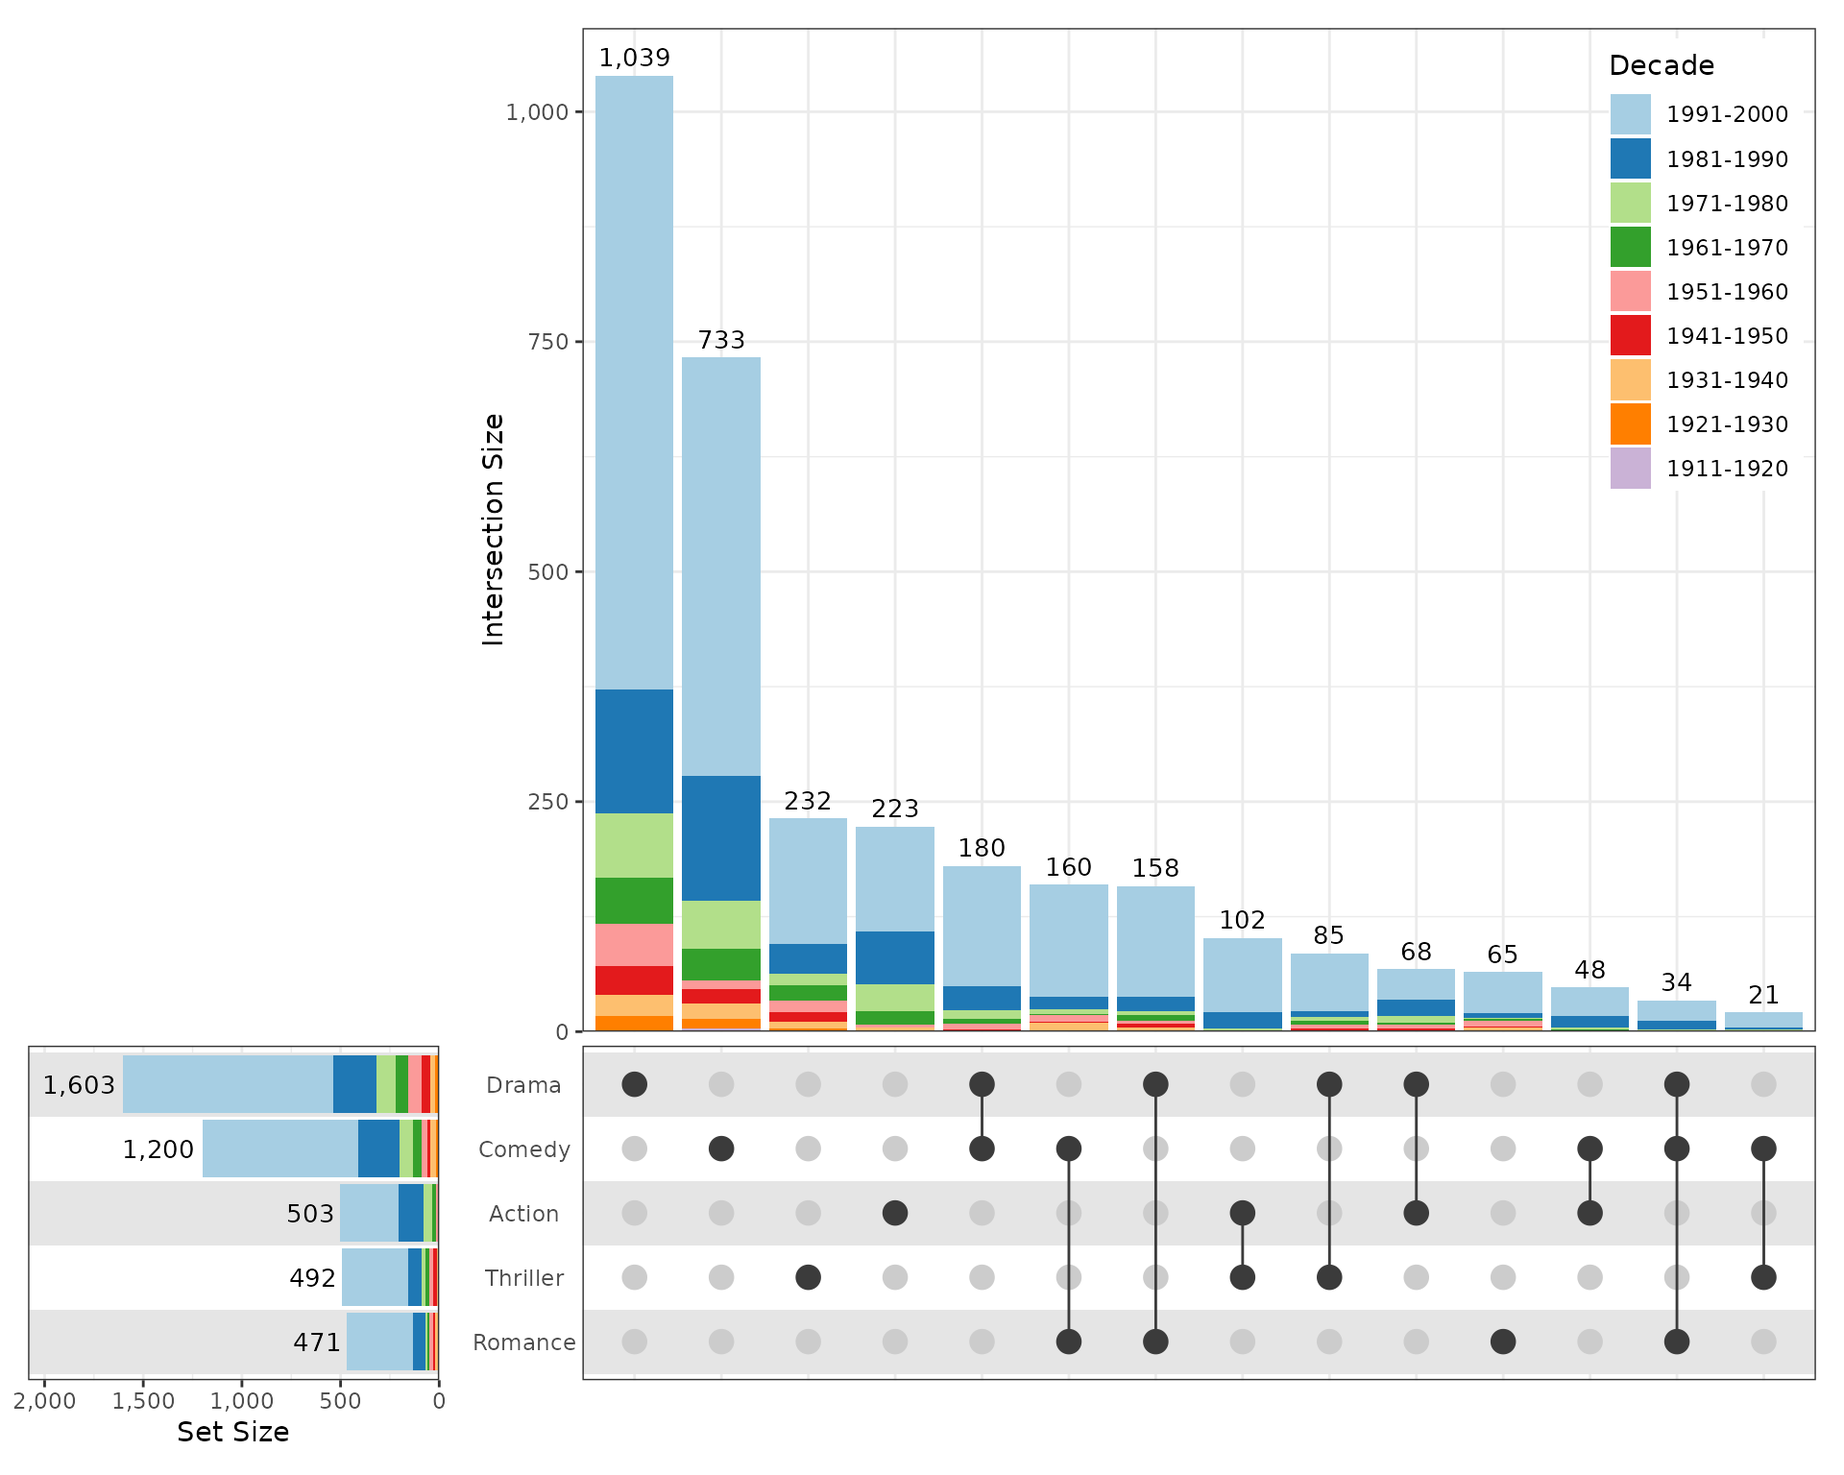
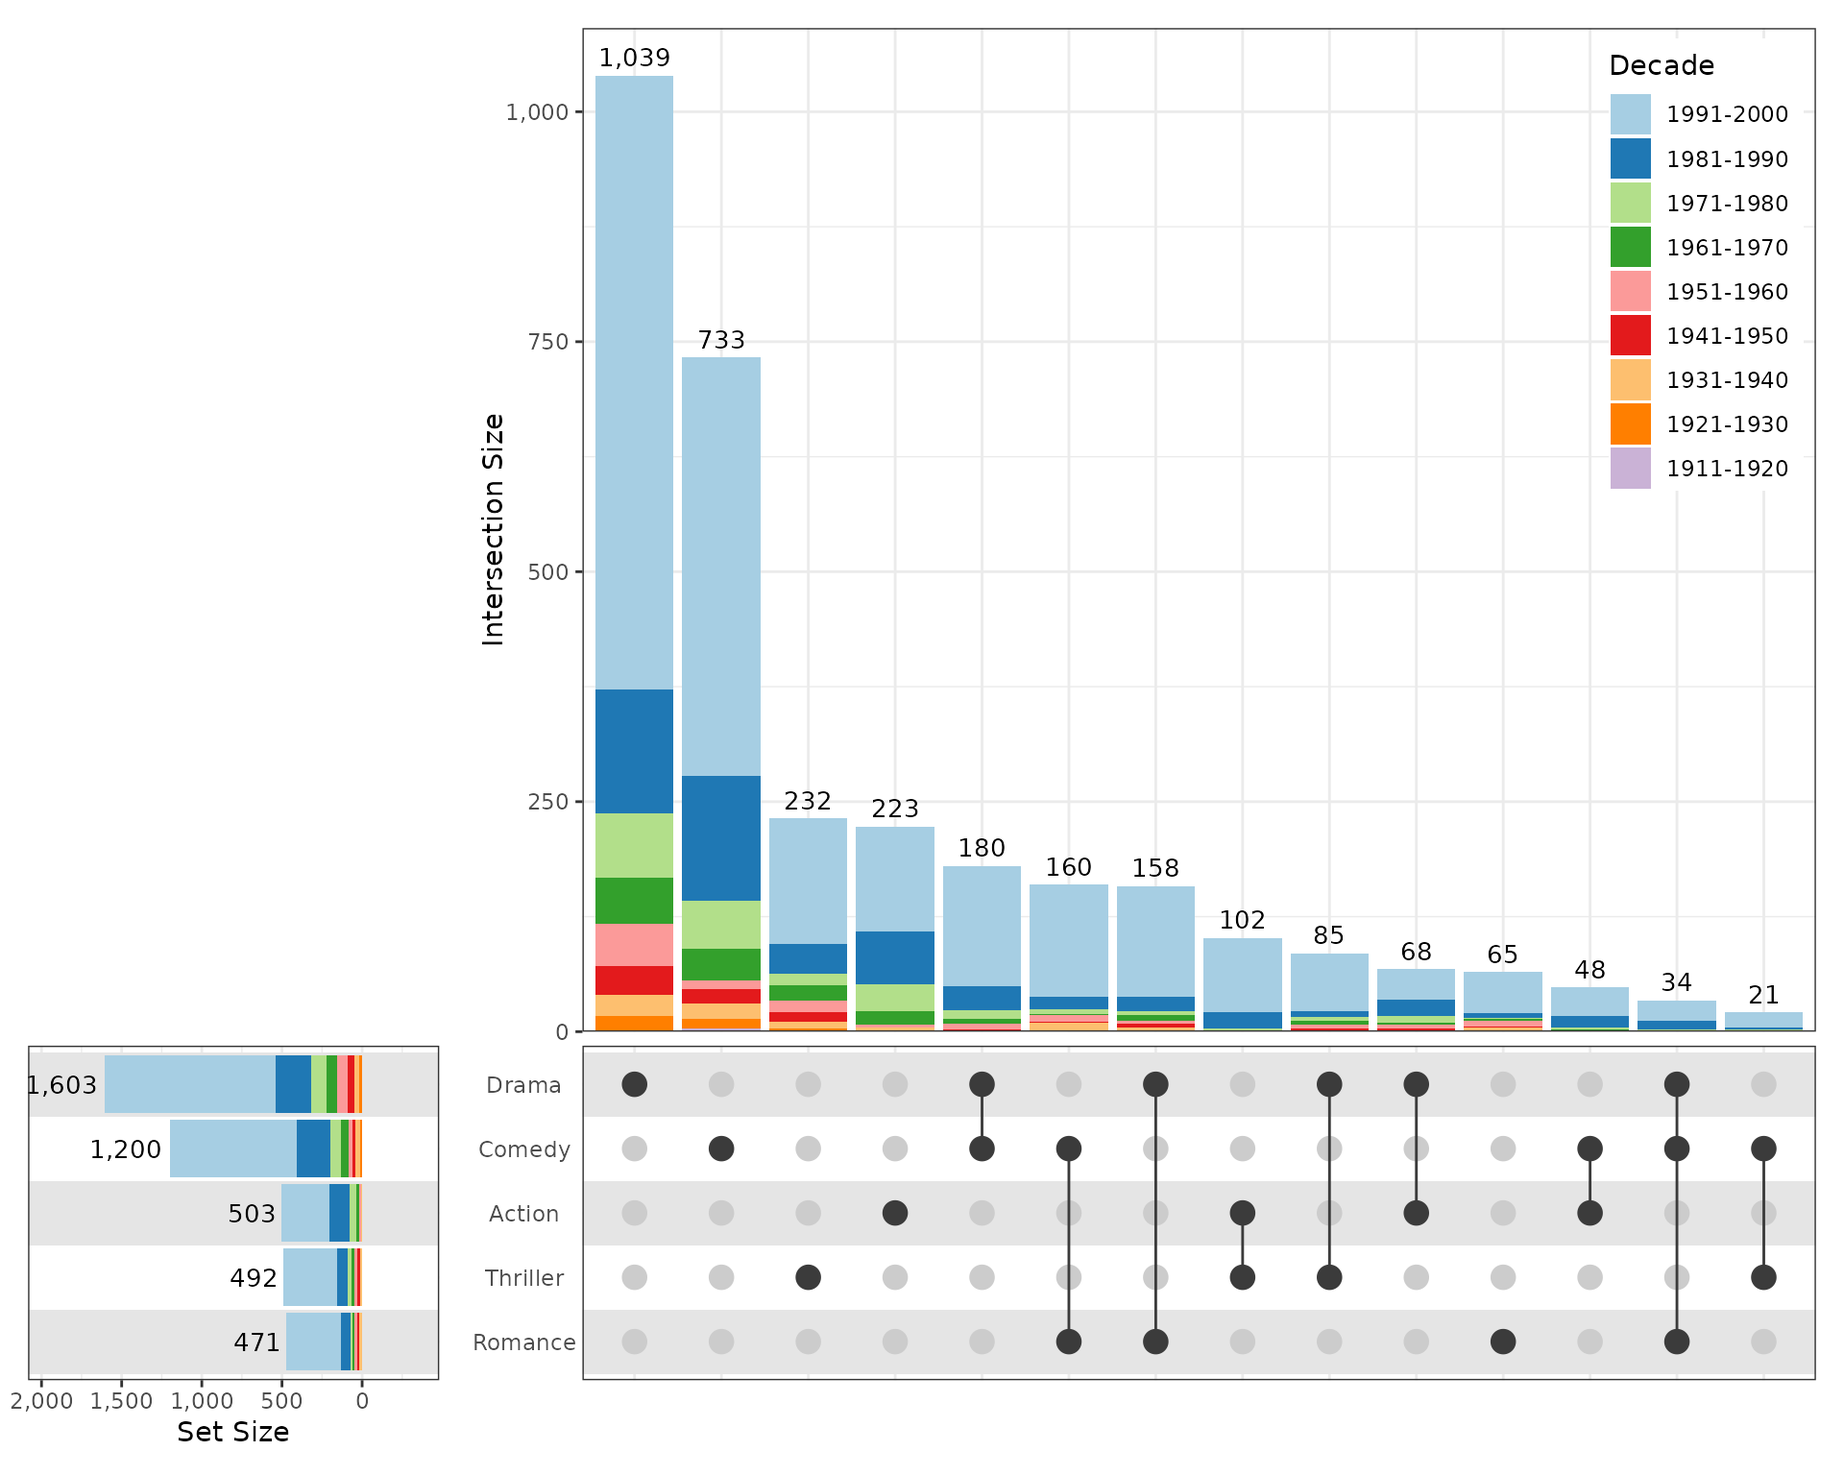
Built site for SimpleUpset@0.0.6: e5e6fec

Changed region(s): [[0.0, 0.6875, 0.25, 0.9688], [0.0312, 0.7188, 0.125, 0.8125]]

diff --git a/reference/default-layers.html b/reference/default-layers.html
@@ -17,7 +17,7 @@
       </button>
       <span class="navbar-brand">
         <a class="navbar-link" href="../index.html">SimpleUpset</a>
-        <span class="version label label-default" data-toggle="tooltip" data-placement="bottom" title="">0.0.5</span>
+        <span class="version label label-default" data-toggle="tooltip" data-placement="bottom" title="">0.0.6</span>
       </span>
     </div>
 
@@ -66,8 +66,9 @@
     <div class="sourceCode"><pre class="sourceCode r"><code><span><span class="fu">default_set_layers</span><span class="op">(</span></span>
 <span>  <span class="va">...</span>,</span>
 <span>  fill <span class="op">=</span> <span class="cn">NULL</span>,</span>
+<span>  labels <span class="op">=</span> <span class="st">"size"</span>,</span>
 <span>  f <span class="op">=</span> <span class="va">comma</span>,</span>
-<span>  expand <span class="op">=</span> <span class="fl">0.2</span>,</span>
+<span>  expand <span class="op">=</span> <span class="fu"><a href="https://rdrr.io/r/base/c.html" class="external-link">c</a></span><span class="op">(</span><span class="fl">0.2</span>, <span class="fl">0</span><span class="op">)</span>,</span>
 <span>  hjust <span class="op">=</span> <span class="fl">1.1</span>,</span>
 <span>  label_size <span class="op">=</span> <span class="fl">3.5</span>,</span>
 <span>  name <span class="op">=</span> <span class="st">"Set Size"</span>,</span>
@@ -77,8 +78,9 @@
 <span><span class="fu">default_intersect_layers</span><span class="op">(</span></span>
 <span>  <span class="va">...</span>,</span>
 <span>  fill <span class="op">=</span> <span class="cn">NULL</span>,</span>
+<span>  labels <span class="op">=</span> <span class="st">"size"</span>,</span>
 <span>  f <span class="op">=</span> <span class="va">comma</span>,</span>
-<span>  expand <span class="op">=</span> <span class="fl">0.05</span>,</span>
+<span>  expand <span class="op">=</span> <span class="fu"><a href="https://rdrr.io/r/base/c.html" class="external-link">c</a></span><span class="op">(</span><span class="fl">0</span>, <span class="fl">0.05</span><span class="op">)</span>,</span>
 <span>  vjust <span class="op">=</span> <span class="op">-</span><span class="fl">0.5</span>,</span>
 <span>  label_size <span class="op">=</span> <span class="fl">3.5</span>,</span>
 <span>  name <span class="op">=</span> <span class="st">"Intersection Size"</span>,</span>
@@ -112,12 +114,17 @@ Will be added after the default layers</p></dd>
 the main data object</p></dd>
 
 
+<dt id="arg-labels">labels<a class="anchor" aria-label="anchor" href="#arg-labels"></a></dt>
+<dd><p>Choose either size or prop to label bars with totals or the
+proportion of all intersections</p></dd>
+
+
 <dt id="arg-f">f<a class="anchor" aria-label="anchor" href="#arg-f"></a></dt>
-<dd><p>Function for labelling set sizes and the set x-axis</p></dd>
+<dd><p>Function for labelling set or intersection sizes sizes</p></dd>
 
 
 <dt id="arg-expand">expand<a class="anchor" aria-label="anchor" href="#arg-expand"></a></dt>
-<dd><p>axis expansion</p></dd>
+<dd><p>Multiplicative axis expansion passed to <code><a href="https://ggplot2.tidyverse.org/reference/expansion.html" class="external-link">ggplot2::expansion()</a></code></p></dd>
 
 
 <dt id="arg-hjust-vjust">hjust, vjust<a class="anchor" aria-label="anchor" href="#arg-hjust-vjust"></a></dt>
@@ -192,6 +199,25 @@ standard list manipulation.</p><div class="section">
 <h3 id="default-layers-for-intersections-matrix-i-e-grid-">Default Layers For Intersections Matrix (i.e. Grid)<a class="anchor" aria-label="anchor" href="#default-layers-for-intersections-matrix-i-e-grid-"></a></h3>
 <table class="table table"><tr><td><strong>ggplot2 element</strong></td><td><strong>Comment</strong></td></tr><tr><td><code>aes(x = intersect, y = set)</code></td><td>Defines the grid layout to match the sets and intersections panels</td></tr><tr><td><code>if (!is.null(colour)) geom_point(mapping = points_aes, size = size, shape = shape) else geom_point(mapping = points_aes, size = size, shape = shape, colour = dark)</code></td><td>These points represent the main intersections. In general, colour/fill will only be required if highlighting points and the constant value is removed using an <code>ifelse</code> statement is colour is set as a mapping aesthetic</td></tr><tr><td><code>geom_point(size = size, shape = shape, colour = light)</code></td><td>These points represent the background or empty intersections</td></tr><tr><td><code>if (!is.null(colour)) geom_segment(segment_aes) else geom_segment(segment_aes, colour = dark)</code></td><td>The segments joining intersections, again removing colour if set as an aesthetic mapping</td></tr><tr><td><code>scale_y_discrete(name = NULL)</code></td><td>Ensures the y-axis matches that of the sets panel</td></tr><tr><td><code>scale_x_discrete(name = name, labels = NULL)</code></td><td>Ensures the x-axis matches that of the intersection panel, with an optional name</td></tr><tr><td><code>guides(colour = guide_none())</code></td><td>By default, don't include a legend for any optionally coloured points</td></tr><tr><td><code>theme(margins = margin(5.5, 5.5, 5.5, 0), axis.text.y = element_text(hjust = 0.5), axis.ticks = element_blank())</code></td><td>Ensures margins, text and tick marks are suitable for the UpSet layout</td></tr></table></div>
 
+<div class="section">
+<h3 id="panel-internals">Panel Internals<a class="anchor" aria-label="anchor" href="#panel-internals"></a></h3>
+
+
+<p>Internally, the supplied data.frame has the additional columns 'intersect',
+'degree' added, along with the optional 'highlight' column.
+This object is used to directly create bars using <code>geom_bar()</code> and as such,
+any of the additional columns can be passed to <code>geom_bar()</code> as sorting options.
+These additional columns, along with any existing columns in the original
+data can be used as mapping aesthetics where relevant.</p>
+<p>For both the sets and intersection totals (i.e. labels), separate tables are
+created specifically for printing totals at the top (or left) of each bar,
+and these tables are specifically passed to those layers.
+Totals are included as 'size' and the proportion of all intersections is
+also included as the column 'prop' for both the sets and intersections panel.
+Whilst default labels are added using 'size', changing this to 'prop' and
+using <code><a href="https://scales.r-lib.org/reference/percent_format.html" class="external-link">scales::percent()</a></code> will work and is supported.</p>
+</div>
+
     </div>
 
     <div id="ref-examples">
@@ -199,8 +225,8 @@ standard list manipulation.</p><div class="section">
     <div class="sourceCode"><pre class="sourceCode r"><code><span class="r-in"><span><span class="co"># View the un-evaluated list of default layers for the sets</span></span></span>
 <span class="r-in"><span><span class="fu">default_set_layers</span><span class="op">(</span>dry_run <span class="op">=</span> <span class="cn">TRUE</span><span class="op">)</span></span></span>
 <span class="r-out co"><span class="r-pr">#&gt;</span> list(aes(y = set), geom_bar(bar_aes), geom_text(aes(x = size, </span>
-<span class="r-out co"><span class="r-pr">#&gt;</span>     label = f(size)), hjust = hjust, size = label_size), scale_x_reverse(expand = c(expand, </span>
-<span class="r-out co"><span class="r-pr">#&gt;</span>     0, 0, 0), name = name, labels = f), scale_y_discrete(position = "right", </span>
+<span class="r-out co"><span class="r-pr">#&gt;</span>     label = f(size)), hjust = hjust, size = label_size), scale_x_reverse(expand = expansion(expand), </span>
+<span class="r-out co"><span class="r-pr">#&gt;</span>     name = name, labels = comma), scale_y_discrete(position = "right", </span>
 <span class="r-out co"><span class="r-pr">#&gt;</span>     name = NULL, labels = NULL), theme(axis.text.y.right = element_text(hjust = 0.5), </span>
 <span class="r-out co"><span class="r-pr">#&gt;</span>     axis.ticks.y.right = element_blank(), margins = margin(5.5, </span>
 <span class="r-out co"><span class="r-pr">#&gt;</span>         0, 5.5, 5.5)))</span>

diff --git a/reference/simpleUpSet.html b/reference/simpleUpSet.html
@@ -17,7 +17,7 @@
       </button>
       <span class="navbar-brand">
         <a class="navbar-link" href="../index.html">SimpleUpset</a>
-        <span class="version label label-default" data-toggle="tooltip" data-placement="bottom" title="">0.0.5</span>
+        <span class="version label label-default" data-toggle="tooltip" data-placement="bottom" title="">0.0.6</span>
       </span>
     </div>
 
@@ -228,7 +228,7 @@ list object, or modified directly using the ellipsis</p>
 <span class="r-in"><span><span class="kw"><a href="https://rdrr.io/r/base/library.html" class="external-link">library</a></span><span class="op">(</span><span class="va"><a href="https://tidyverse.tidyverse.org" class="external-link">tidyverse</a></span><span class="op">)</span></span></span>
 <span class="r-msg co"><span class="r-pr">#&gt;</span> ── <span style="font-weight: bold;">Attaching core tidyverse packages</span> ──────────────────────── tidyverse 2.0.0 ──</span>
 <span class="r-msg co"><span class="r-pr">#&gt;</span> <span style="color: #00BB00;">✔</span> <span style="color: #0000BB;">dplyr    </span> 1.1.4     <span style="color: #00BB00;">✔</span> <span style="color: #0000BB;">readr    </span> 2.1.5</span>
-<span class="r-msg co"><span class="r-pr">#&gt;</span> <span style="color: #00BB00;">✔</span> <span style="color: #0000BB;">forcats  </span> 1.0.0     <span style="color: #00BB00;">✔</span> <span style="color: #0000BB;">stringr  </span> 1.5.2</span>
+<span class="r-msg co"><span class="r-pr">#&gt;</span> <span style="color: #00BB00;">✔</span> <span style="color: #0000BB;">forcats  </span> 1.0.1     <span style="color: #00BB00;">✔</span> <span style="color: #0000BB;">stringr  </span> 1.5.2</span>
 <span class="r-msg co"><span class="r-pr">#&gt;</span> <span style="color: #00BB00;">✔</span> <span style="color: #0000BB;">lubridate</span> 1.9.4     <span style="color: #00BB00;">✔</span> <span style="color: #0000BB;">tibble   </span> 3.3.0</span>
 <span class="r-msg co"><span class="r-pr">#&gt;</span> <span style="color: #00BB00;">✔</span> <span style="color: #0000BB;">purrr    </span> 1.1.0     <span style="color: #00BB00;">✔</span> <span style="color: #0000BB;">tidyr    </span> 1.3.1</span>
 <span class="r-msg co"><span class="r-pr">#&gt;</span> ── <span style="font-weight: bold;">Conflicts</span> ────────────────────────────────────────── tidyverse_conflicts() ──</span>

diff --git a/articles/introduction.html b/articles/introduction.html
@@ -32,7 +32,7 @@
       </button>
       <span class="navbar-brand">
         <a class="navbar-link" href="../index.html">SimpleUpset</a>
-        <span class="version label label-default" data-toggle="tooltip" data-placement="bottom" title="">0.0.5</span>
+        <span class="version label label-default" data-toggle="tooltip" data-placement="bottom" title="">0.0.6</span>
       </span>
     </div>
 
@@ -190,8 +190,8 @@ begin customisation from a low level.</p>
 <div class="sourceCode" id="cb4"><pre class="downlit sourceCode r">
 <code class="sourceCode R"><span><span class="fu"><a href="../reference/default-layers.html">default_set_layers</a></span><span class="op">(</span>dry_run <span class="op">=</span> <span class="cn">TRUE</span><span class="op">)</span></span>
 <span><span class="co">#&gt; list(aes(y = set), geom_bar(bar_aes), geom_text(aes(x = size, </span></span>
-<span><span class="co">#&gt;     label = f(size)), hjust = hjust, size = label_size), scale_x_reverse(expand = c(expand, </span></span>
-<span><span class="co">#&gt;     0, 0, 0), name = name, labels = f), scale_y_discrete(position = "right", </span></span>
+<span><span class="co">#&gt;     label = f(size)), hjust = hjust, size = label_size), scale_x_reverse(expand = expansion(expand), </span></span>
+<span><span class="co">#&gt;     name = name, labels = comma), scale_y_discrete(position = "right", </span></span>
 <span><span class="co">#&gt;     name = NULL, labels = NULL), theme(axis.text.y.right = element_text(hjust = 0.5), </span></span>
 <span><span class="co">#&gt;     axis.ticks.y.right = element_blank(), margins = margin(5.5, </span></span>
 <span><span class="co">#&gt;         0, 5.5, 5.5)))</span></span></code></pre></div>
@@ -304,8 +304,8 @@ as useful for communication with readers</p>
 <em>graphics</em>, <em>grDevices</em>, <em>utils</em>,
 <em>datasets</em>, <em>methods</em> and <em>base</em></p>
 <p><strong>other attached packages:</strong> <em>pander(v.0.6.6)</em>,
-<em>SimpleUpset(v.0.0.5)</em>, <em>patchwork(v.1.3.2)</em>,
-<em>lubridate(v.1.9.4)</em>, <em>forcats(v.1.0.0)</em>,
+<em>SimpleUpset(v.0.0.6)</em>, <em>patchwork(v.1.3.2)</em>,
+<em>lubridate(v.1.9.4)</em>, <em>forcats(v.1.0.1)</em>,
 <em>stringr(v.1.5.2)</em>, <em>dplyr(v.1.1.4)</em>,
 <em>purrr(v.1.1.0)</em>, <em>readr(v.2.1.5)</em>,
 <em>tidyr(v.1.3.1)</em>, <em>tibble(v.3.3.0)</em>,

diff --git a/news/index.html b/news/index.html
@@ -17,7 +17,7 @@
       </button>
       <span class="navbar-brand">
         <a class="navbar-link" href="../index.html">SimpleUpset</a>
-        <span class="version label label-default" data-toggle="tooltip" data-placement="bottom" title="">0.0.5</span>
+        <span class="version label label-default" data-toggle="tooltip" data-placement="bottom" title="">0.0.6</span>
       </span>
     </div>
 
@@ -57,6 +57,10 @@
       <small>Source: <a href="https://github.com/smped/SimpleUpset/blob/gh-actions/NEWS.md" class="external-link"><code>NEWS.md</code></a></small>
     </div>
 
+    <div class="section level2">
+<h2 class="page-header" data-toc-text="0.0.6" id="simpleupset-006">SimpleUpset 0.0.6<a class="anchor" aria-label="anchor" href="#simpleupset-006"></a></h2>
+<ul><li>Included the ability to add proportions instead of totals as bar labels</li>
+</ul></div>
     <div class="section level2">
 <h2 class="page-header" data-toc-text="0.0.5" id="simpleupset-005">SimpleUpset 0.0.5<a class="anchor" aria-label="anchor" href="#simpleupset-005"></a></h2>
 <ul><li>Added highlight_levels for finer control of highlighting</li>

diff --git a/authors.html b/authors.html
@@ -17,7 +17,7 @@
       </button>
       <span class="navbar-brand">
         <a class="navbar-link" href="index.html">SimpleUpset</a>
-        <span class="version label label-default" data-toggle="tooltip" data-placement="bottom" title="">0.0.5</span>
+        <span class="version label label-default" data-toggle="tooltip" data-placement="bottom" title="">0.0.6</span>
       </span>
     </div>
 
@@ -73,13 +73,13 @@
 
     <p>Pederson S (2025).
 <em>SimpleUpset: Create UpSet plots</em>.
-R package version 0.0.5, <a href="https://github.com/smped/SimpleUpset" class="external-link">https://github.com/smped/SimpleUpset</a>.
+R package version 0.0.6, <a href="https://github.com/smped/SimpleUpset" class="external-link">https://github.com/smped/SimpleUpset</a>.
 </p>
     <pre>@Manual{,
   title = {SimpleUpset: Create UpSet plots},
   author = {Stevie Pederson},
   year = {2025},
-  note = {R package version 0.0.5},
+  note = {R package version 0.0.6},
   url = {https://github.com/smped/SimpleUpset},
 }</pre>
 

diff --git a/404.html b/404.html
@@ -32,7 +32,7 @@
       </button>
       <span class="navbar-brand">
         <a class="navbar-link" href="https://smped.github.io/SimpleUpset/index.html">SimpleUpset</a>
-        <span class="version label label-default" data-toggle="tooltip" data-placement="bottom" title="">0.0.5</span>
+        <span class="version label label-default" data-toggle="tooltip" data-placement="bottom" title="">0.0.6</span>
       </span>
     </div>
 

diff --git a/articles/index.html b/articles/index.html
@@ -17,7 +17,7 @@
       </button>
       <span class="navbar-brand">
         <a class="navbar-link" href="../index.html">SimpleUpset</a>
-        <span class="version label label-default" data-toggle="tooltip" data-placement="bottom" title="">0.0.5</span>
+        <span class="version label label-default" data-toggle="tooltip" data-placement="bottom" title="">0.0.6</span>
       </span>
     </div>
 

diff --git a/reference/index.html b/reference/index.html
@@ -17,7 +17,7 @@
       </button>
       <span class="navbar-brand">
         <a class="navbar-link" href="../index.html">SimpleUpset</a>
-        <span class="version label label-default" data-toggle="tooltip" data-placement="bottom" title="">0.0.5</span>
+        <span class="version label label-default" data-toggle="tooltip" data-placement="bottom" title="">0.0.6</span>
       </span>
     </div>
 

diff --git a/TODO.html b/TODO.html
@@ -17,7 +17,7 @@
       </button>
       <span class="navbar-brand">
         <a class="navbar-link" href="index.html">SimpleUpset</a>
-        <span class="version label label-default" data-toggle="tooltip" data-placement="bottom" title="">0.0.5</span>
+        <span class="version label label-default" data-toggle="tooltip" data-placement="bottom" title="">0.0.6</span>
       </span>
     </div>
 

diff --git a/index.html b/index.html
@@ -33,7 +33,7 @@
       </button>
       <span class="navbar-brand">
         <a class="navbar-link" href="index.html">SimpleUpset</a>
-        <span class="version label label-default" data-toggle="tooltip" data-placement="bottom" title="">0.0.5</span>
+        <span class="version label label-default" data-toggle="tooltip" data-placement="bottom" title="">0.0.6</span>
       </span>
     </div>
 
